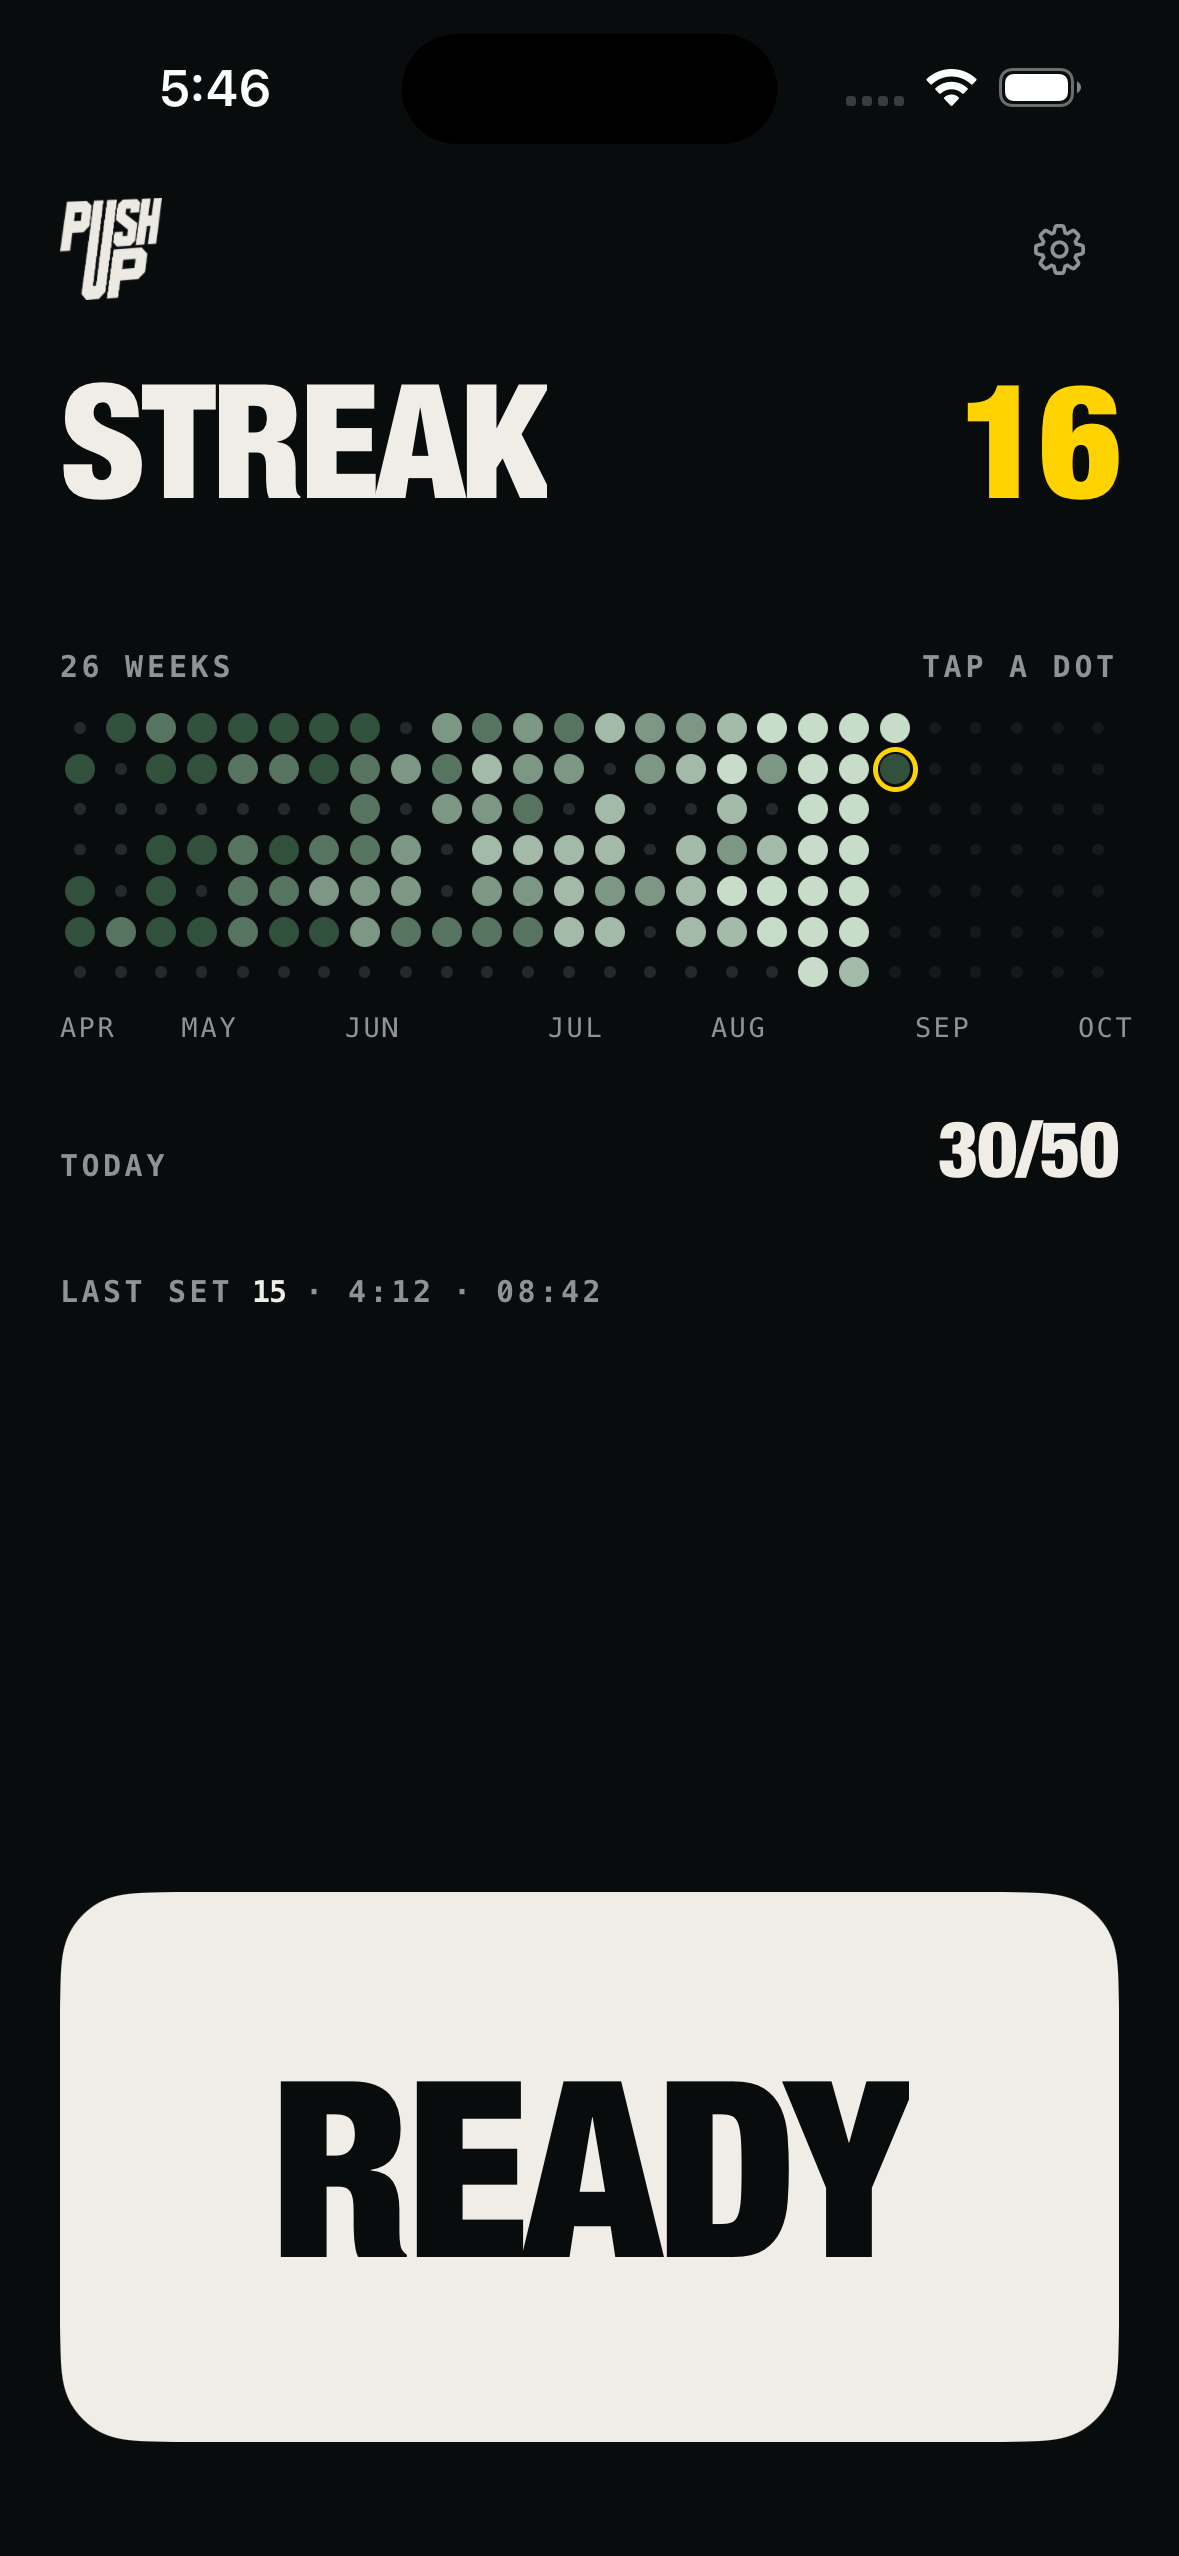
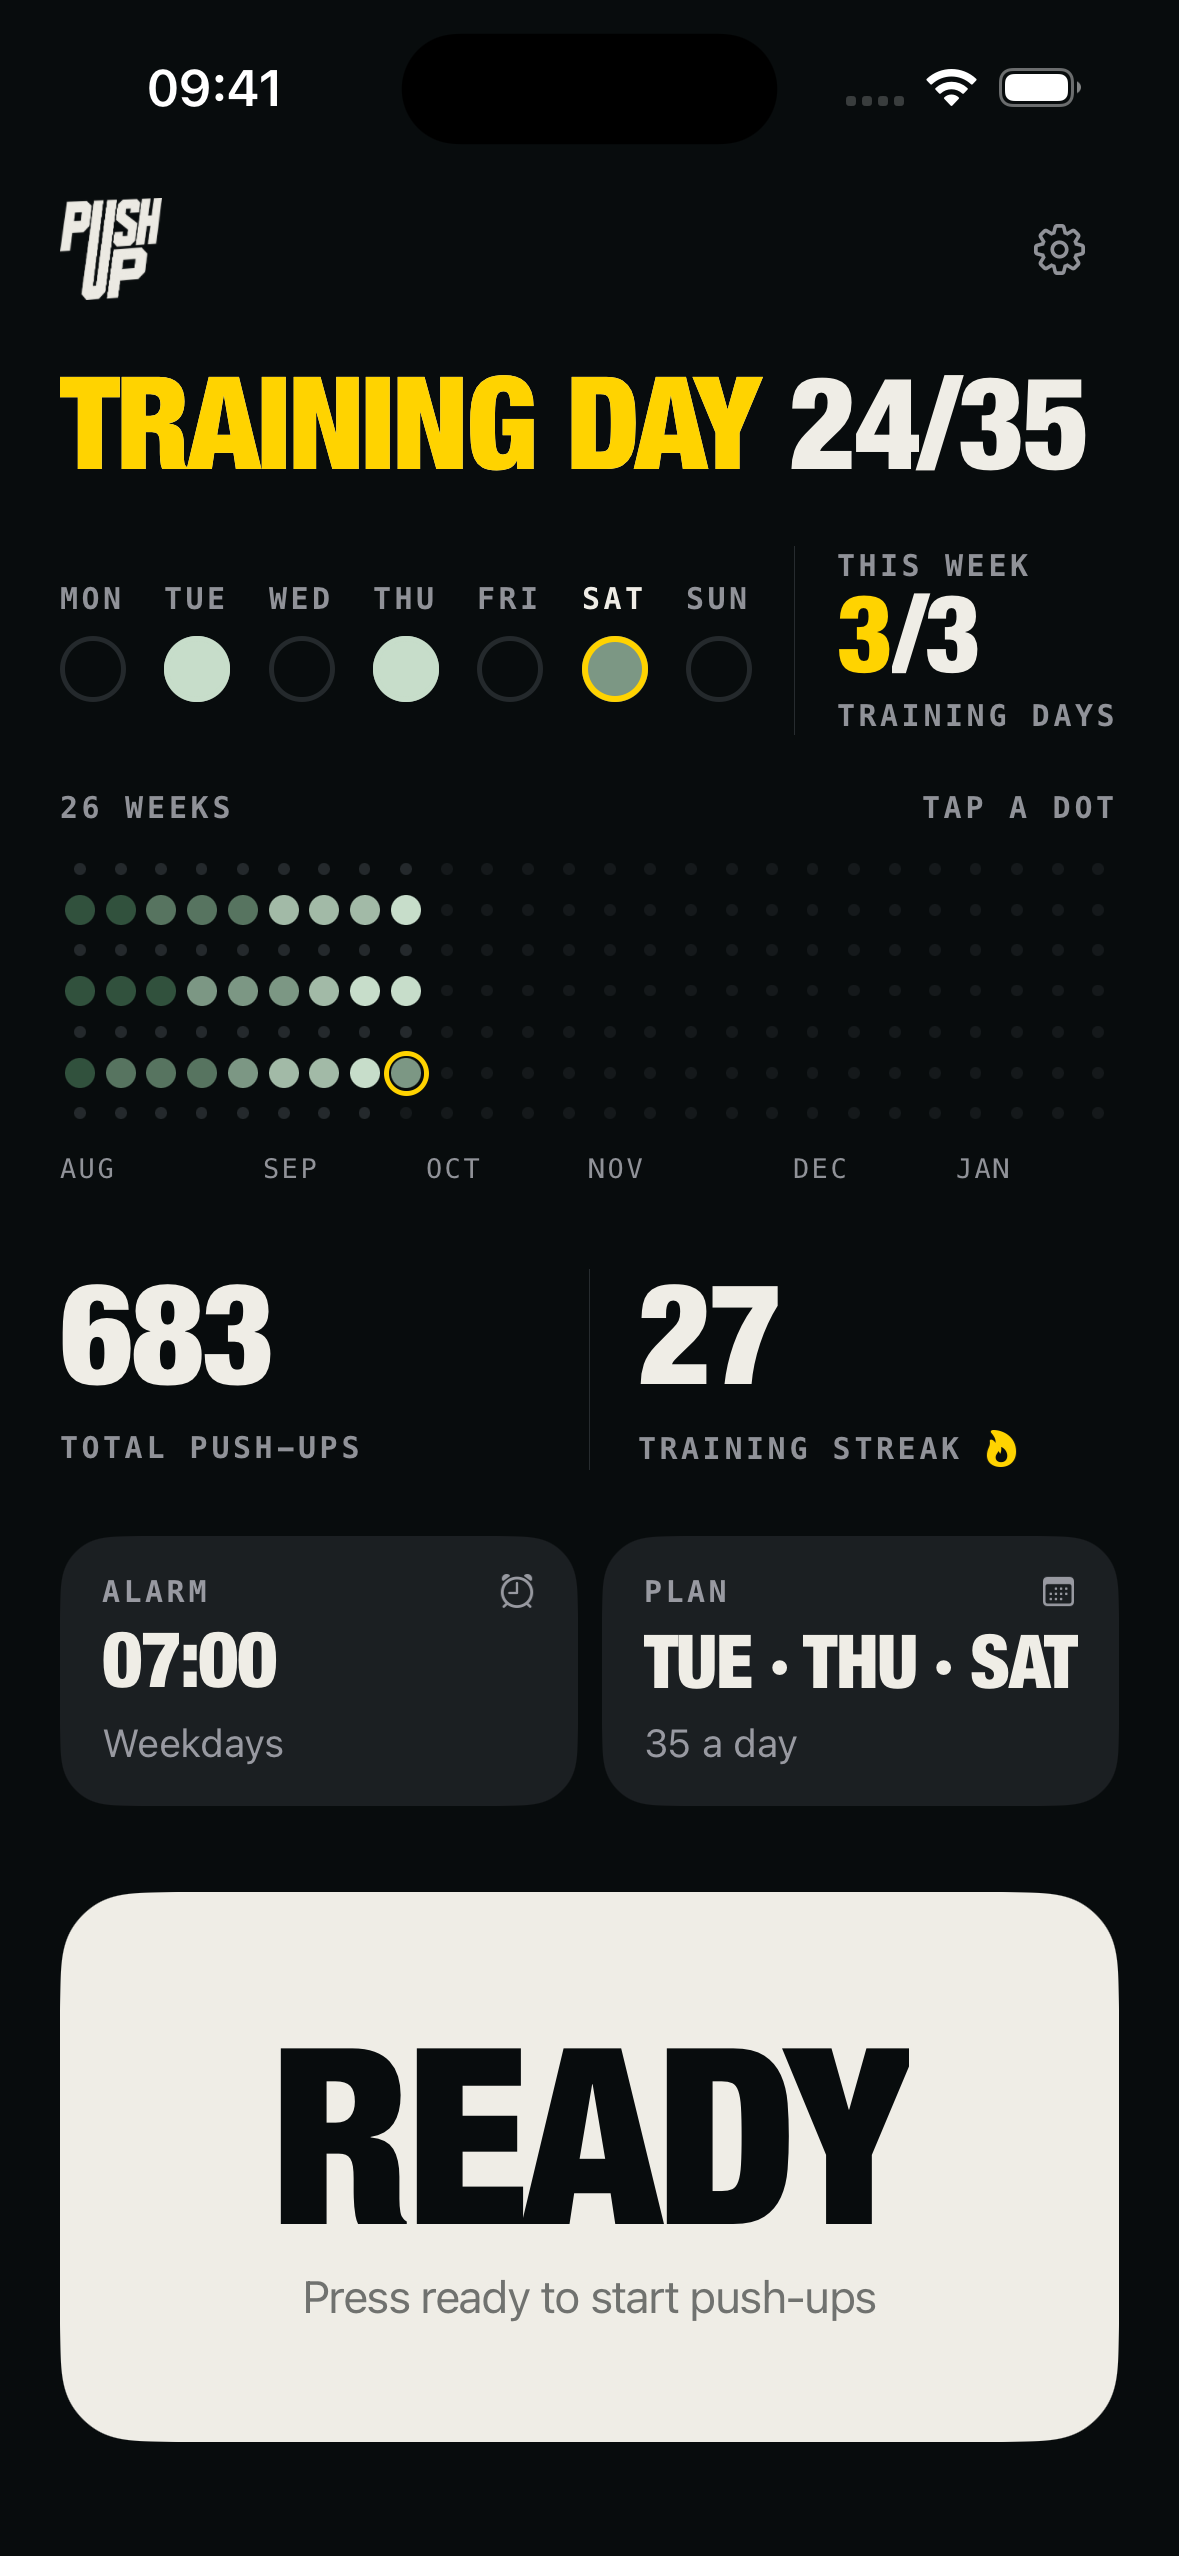
Show the 1.2 home screen
The home screen and its dark twin were 1.0's: a streak above a calendar. 1.2
leads with today's count filling the headline, then the week, the calendar,
the alarm and the training plan.

Taken on an iPhone 16 simulator at the same 1179x2556 as the other two shots,
from a release build with demo data (24 of 35 today), with the Dynamic Island
drawn in as it is on them.

diff --git a/src/components/screens.tsx b/src/components/screens.tsx
@@ -14,7 +14,7 @@ const SCREENS = [
     category: "Home",
     title: "The board fills itself",
     src: "/shots/home.png",
-    alt: "The home screen: a sixteen day streak and a calendar of green dots",
+    alt: "The home screen: today's push-ups filling the headline, the week, a calendar of green dots, the alarm and the training plan",
   },
   {
     category: "A set",
